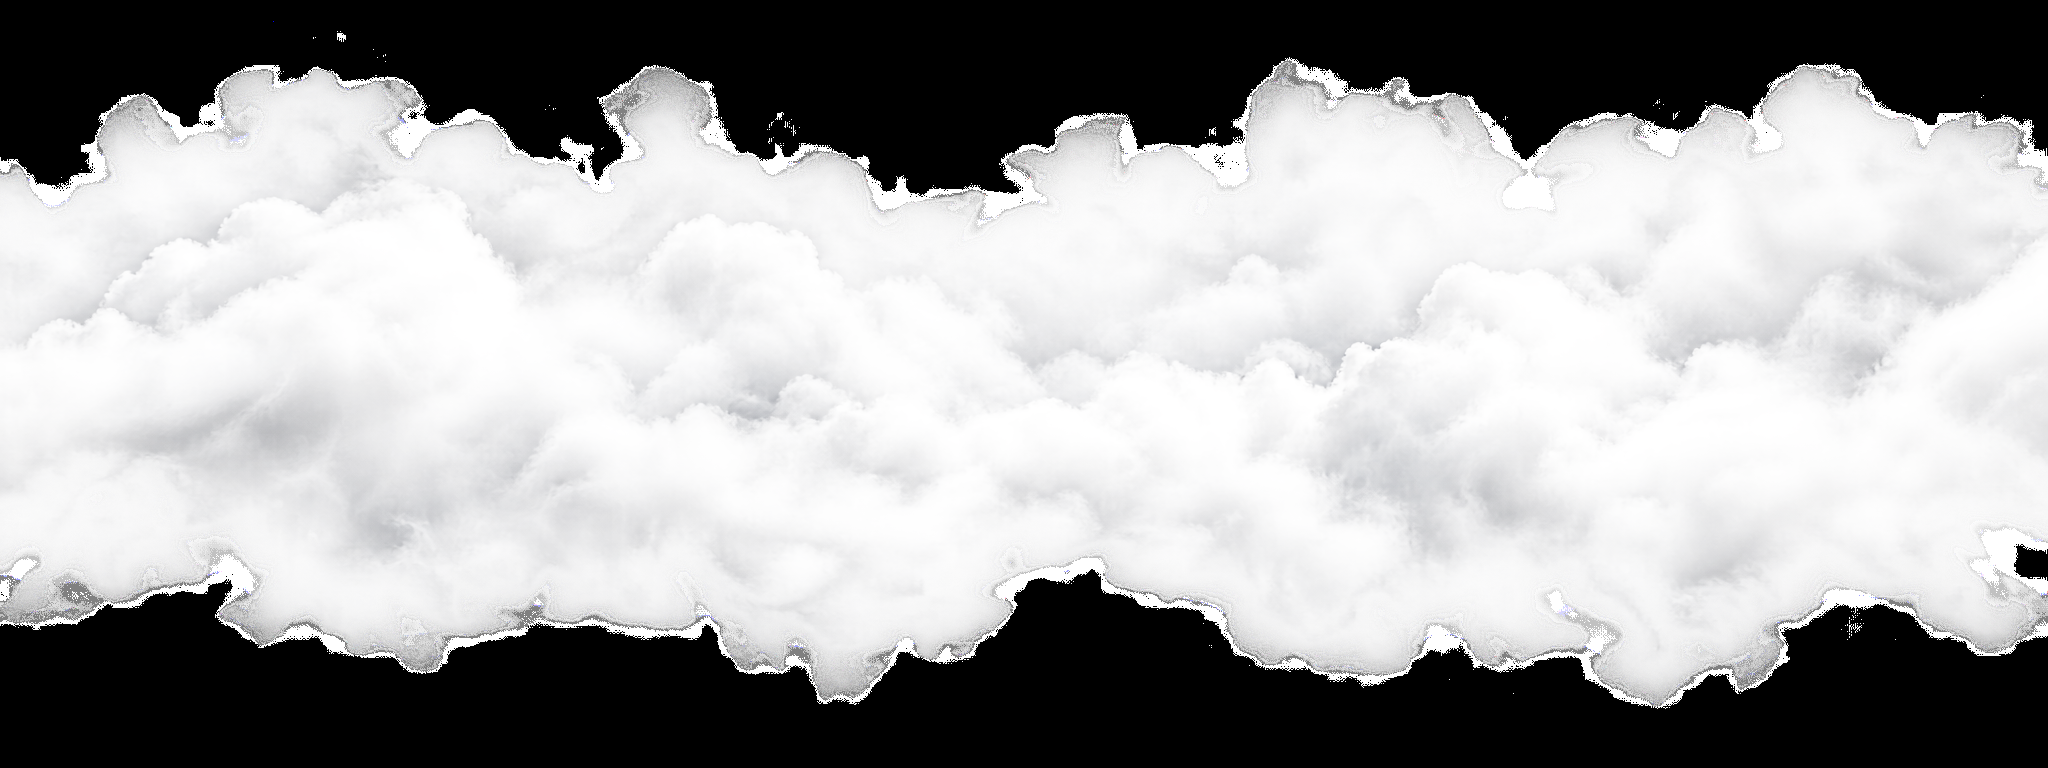
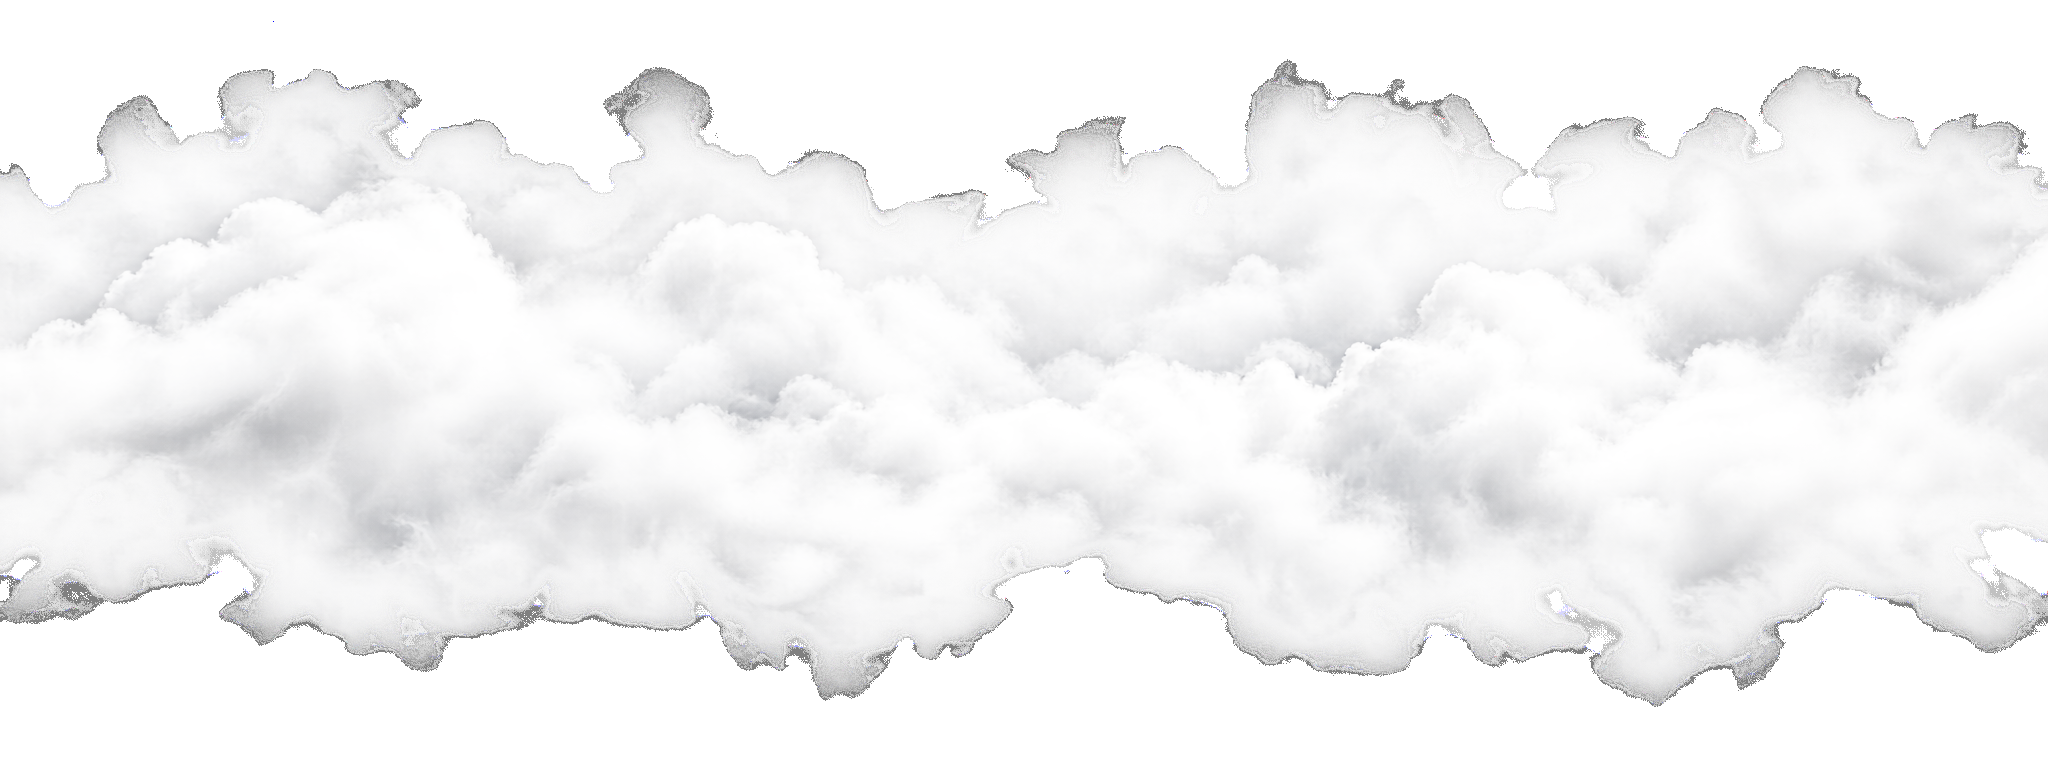
Corrige la transparence du voile de nuages et son positionnement
Le PNG nuage-voile.png avait bien un canal alpha (colorType RGBA) mais
ses pixels de bordure/fond etaient RGB(0,0,0) opaques (alpha=255) au
lieu d'etre transparents, d'ou le bloc noir visible autour du nuage.
Reencode le fichier en mettant alpha=0 sur les pixels quasi noirs tout
en preservant le degrade du nuage lui-meme.

Remplace aussi le chevauchement en position absolute (top: -60px, qui
recouvrait le noeud 12 d'Abidjan) par un bloc .mapCityJunction dans le
flux normal, insere entre les deux .mapCitySection via un Fragment :
le voile occupe son propre espace (110px + marges) sans jamais toucher
les noeuds des sections voisines.

diff --git a/src/components/MaRacinePuzzle.tsx b/src/components/MaRacinePuzzle.tsx
@@ -1,6 +1,6 @@
 'use client';
 
-import { useState, useRef, useEffect } from 'react';
+import { Fragment, useState, useRef, useEffect } from 'react';
 import { useRouter } from 'next/navigation';
 import { signOut } from 'firebase/auth';
 import styles from './MaRacinePuzzle.module.css';
@@ -2138,18 +2138,21 @@ export default function MaRacinePuzzle() {
             const hasBg = CITY_BACKGROUNDS[ci] !== null;
             const nodePts = CITY_NODE_PERCENTS[ci];
             return (
-              <div key={city.city} className={styles.mapCitySection}>
+              <Fragment key={city.city}>
+                {ci > 0 && hasBg && CITY_BACKGROUNDS[ci - 1] !== null && (
+                  <div className={styles.mapCityJunction}>
+                    <img
+                      src="/maps/nuage-voile.png"
+                      alt=""
+                      className={styles.mapCloudVeil}
+                    />
+                  </div>
+                )}
+                <div className={styles.mapCitySection}>
                 {!hasBg && <div className={styles.mapCityBanner}>{city.city}</div>}
                 <div className={hasBg ? styles.mapRoutePercent : styles.mapRoute}>
                   {hasBg ? (
                     <>
-                      {ci > 0 && CITY_BACKGROUNDS[ci - 1] !== null && (
-                        <img
-                          src="/maps/nuage-voile.png"
-                          alt=""
-                          className={styles.mapCloudVeil}
-                        />
-                      )}
                       <img
                         src={CITY_BACKGROUNDS[ci]!}
                         alt={city.city}
@@ -2236,7 +2239,8 @@ export default function MaRacinePuzzle() {
                     )}
                   </div>
                 </div>
-              </div>
+                </div>
+              </Fragment>
             );
           })}
         </div>

diff --git a/src/components/MaRacinePuzzle.module.css b/src/components/MaRacinePuzzle.module.css
@@ -1626,15 +1626,21 @@
   z-index: 5;
 }
 
+.mapCityJunction {
+  position: relative;
+  width: calc(100% + 32px);
+  margin: 22px -16px;
+  height: 110px;
+  overflow: hidden;
+  pointer-events: none;
+}
+
 .mapCloudVeil {
   position: absolute;
-  top: -60px;
-  left: 0;
+  inset: 0;
   width: 100%;
-  height: auto;
-  aspect-ratio: 16 / 6;
+  height: 100%;
   object-fit: cover;
-  z-index: 2;
   pointer-events: none;
 }
 
